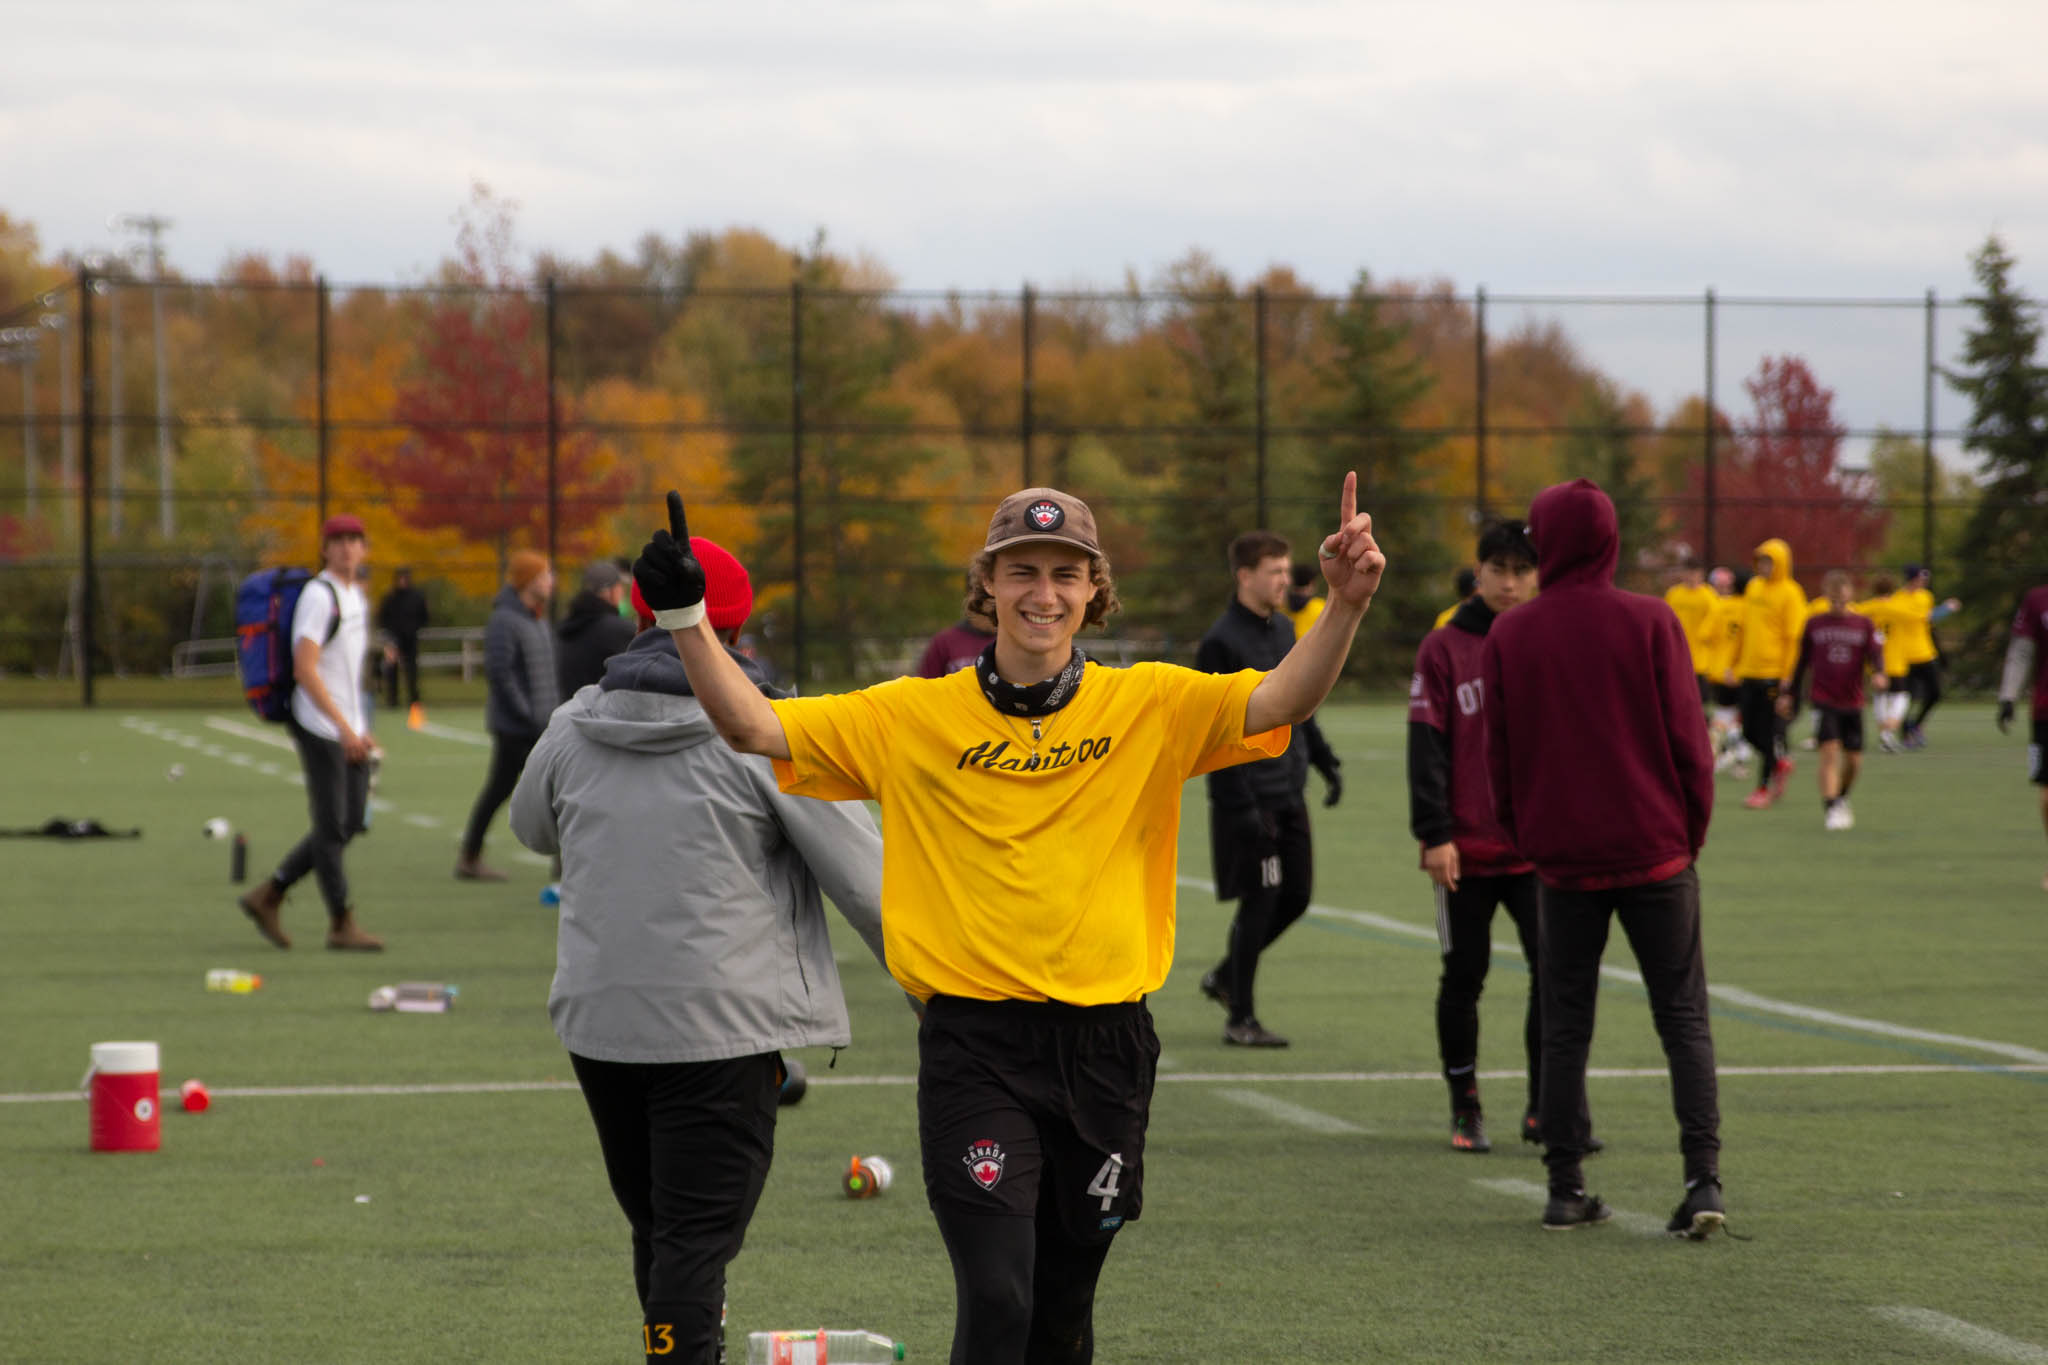
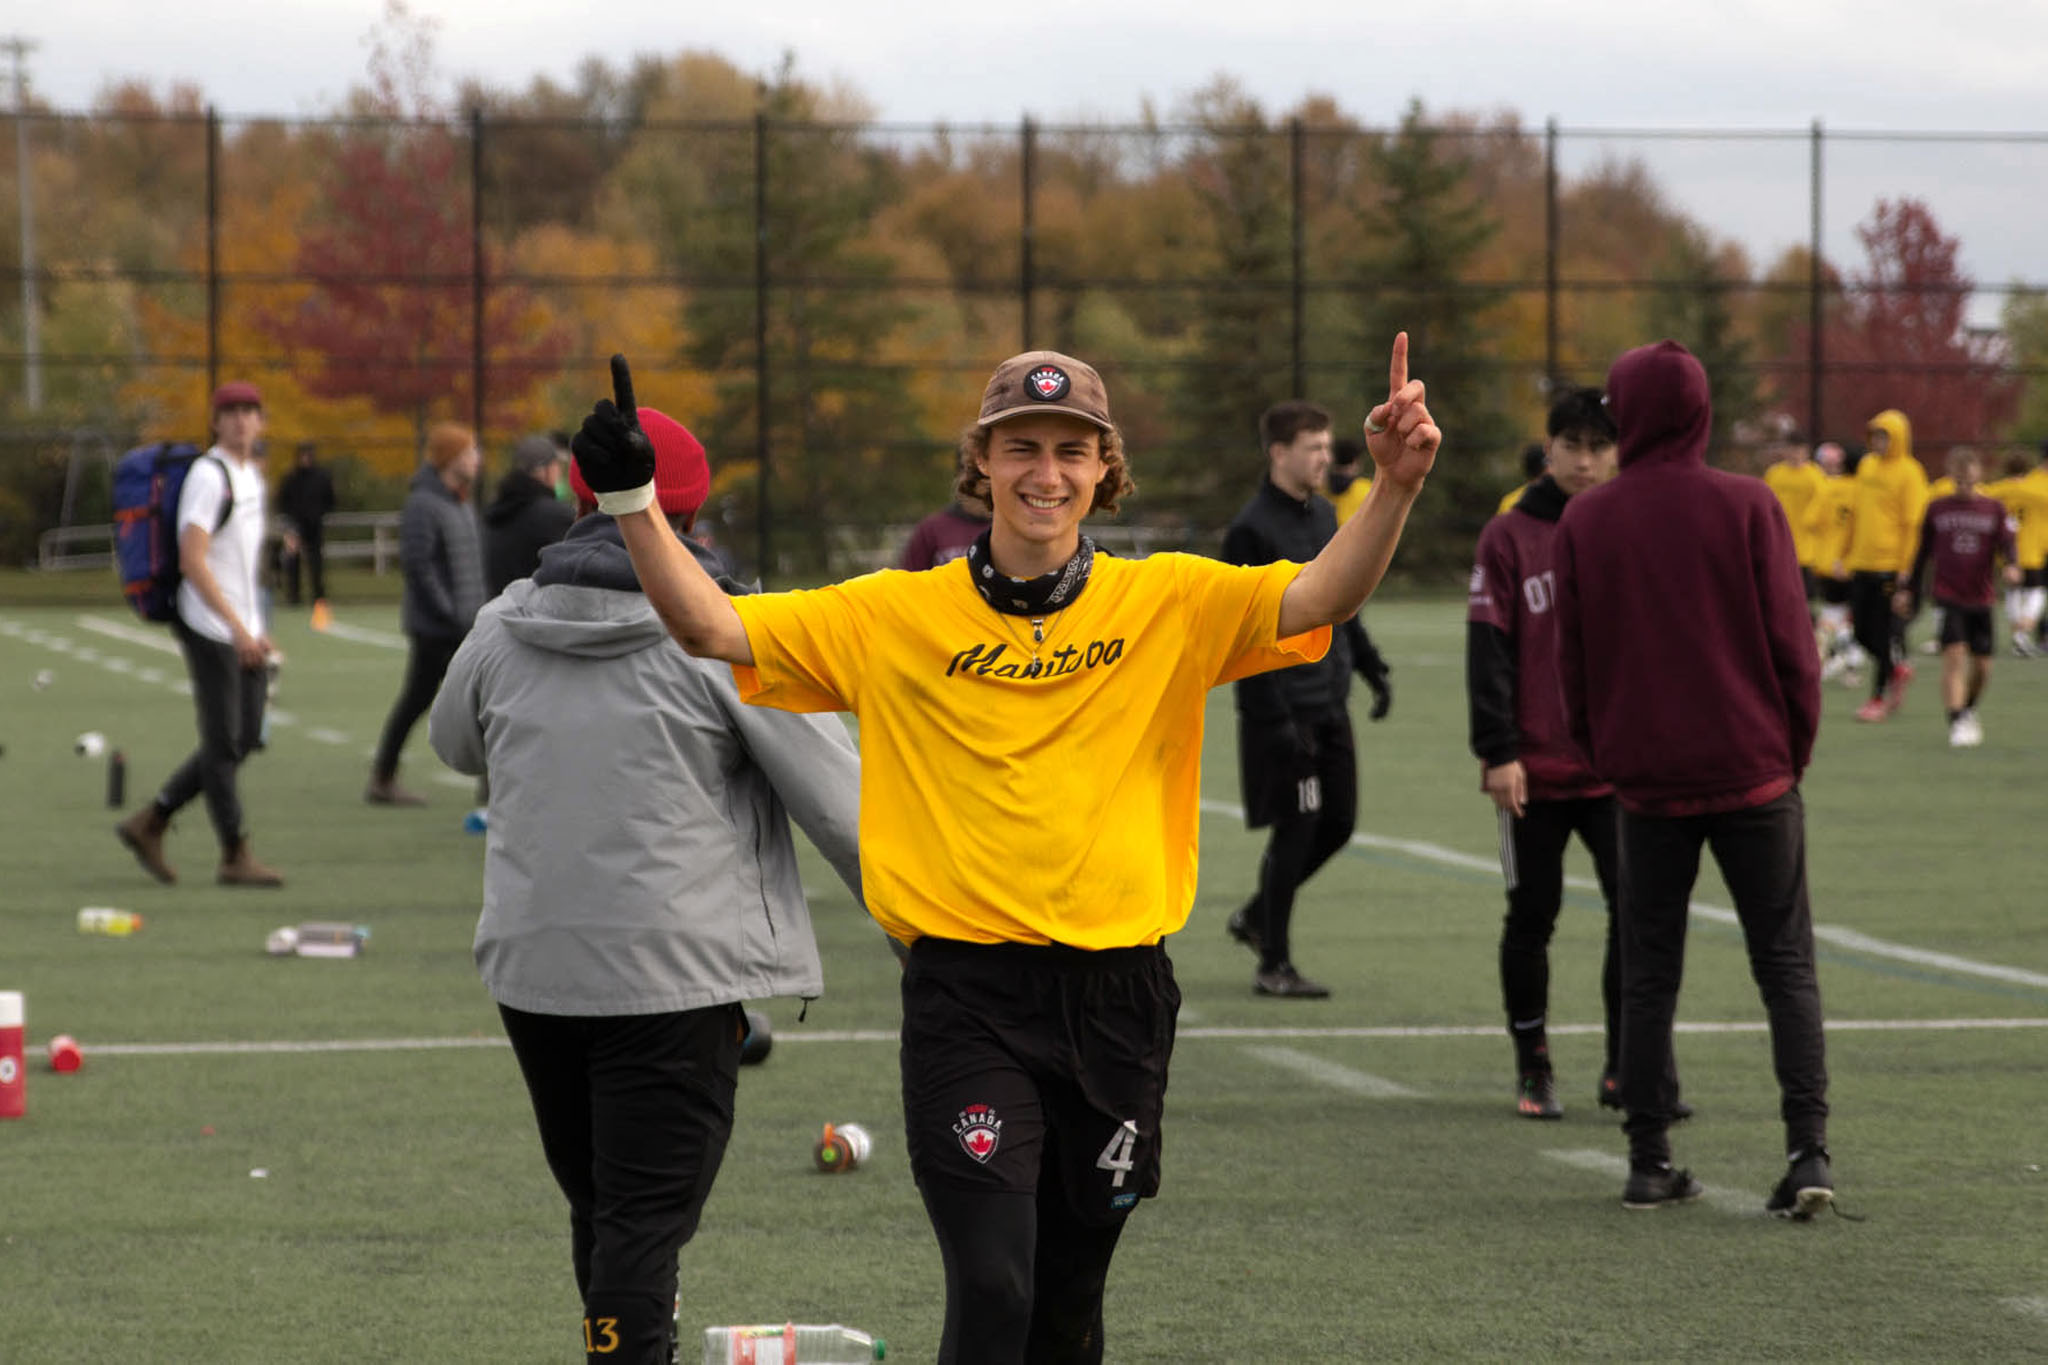
adds content and fixes images

diff --git a/about.html b/about.html
@@ -29,9 +29,24 @@
         <img src="images/ThomasS.PNG" alt="Thomas Stanton" width="25%" height=" 400px">
     </div>
     <p>
-        My name is Thomas Stanton and I am a student at Algonquin College in the <a href="https://www.algonquincollege.com/mediaanddesign/program/interactive-media-design/#overview" class="IMD">Interactive Meadia Design</a> program. Currently I have been Expanding my knowledge in photography, videography, web development, graphic design and brand design. I am from Ottawa Ontario and have a passion for Ultimate Frisbee. 
-       
+        My name is Thomas Stanton and I am a student at Algonquin College in the <a href="https://www.algonquincollege.com/mediaanddesign/program/interactive-media-design/#overview" class="IMD">Interactive Meadia Design</a> program. I was born in Ottawa Ontario and have a passion for Ultimate Frisbee which I try to help grow through my media. During my free time I enjoy to play or watch sports, and creating graphic designs. 
     </p> 
+
+    <h3>Studies</h3>
+
+    <P>During my time at Algonquin College, I have gained knowledge in a wide variety of media styles. This would include photogrpahy, videography, audio, web development, graphic design, brand design and user experience. I have also gained knowledge in wordpress and drupal during my time in the IMD program. With practice through assignments I have been able to learn how to create media in different ways to help produce for clients. 
+    </P>
+
+    <h3>Experience in... </h3>
+    
+    <ul>
+        <li>Adobe Photoshop</li>
+        <li>Adobe Lightroom</li>
+        <li>Adobe Premiere Pro</li>
+        <li>Adobe Illustrator</li>
+        <li>Adobe Xd</li>
+    </ul>
+
 </body>
 <footer>
     <!-- adds main logo -->

diff --git a/portfolio.html b/portfolio.html
@@ -32,7 +32,15 @@
     <div class="Cottage Shed">
         <img src="images/Cottageshed.jpg" alt="Shed" width="600px" height="500px">
     </div>
-
+    <div class="Theo ">
+        <img src="images/Theo.jpg" alt="Theo" width="600px" height="500px">
+    </div>
+    <div class="TR ">
+        <img src="images/trdesigns.jpg" alt="Toronto Rush" width="600px" height="500px">
+    </div>
+    <div class="Quinn Wilson ">
+        <img src="images/IMG_9445QW.jpg" alt="Quinn Wilson" width="600px" height="500px">
+    </div>
 </body>
 <footer>
     <!-- adds main logo -->

diff --git a/contact.html b/contact.html
@@ -26,6 +26,10 @@
         <li><a href="contact.html" id="navtab">Contact</a></li>
         <li><a href="services.html" id="navtab">Services</a></li>
     </ul>
+
+    <h3>Contact Info</h3>
+
+    <p>Email: thomasstanton8714@gmail.com</p>
 </body>
 <footer>
     <!-- adds main logo -->
